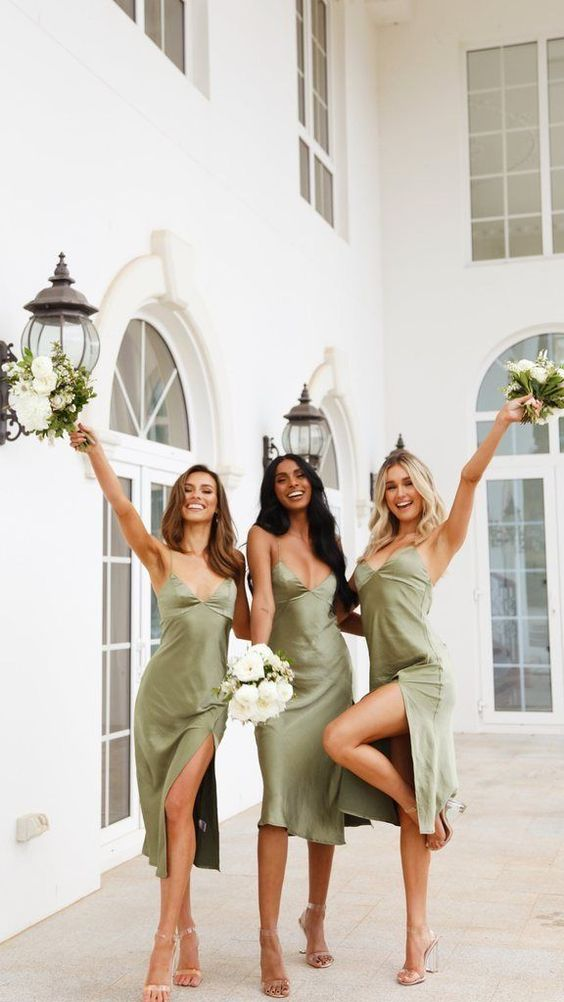
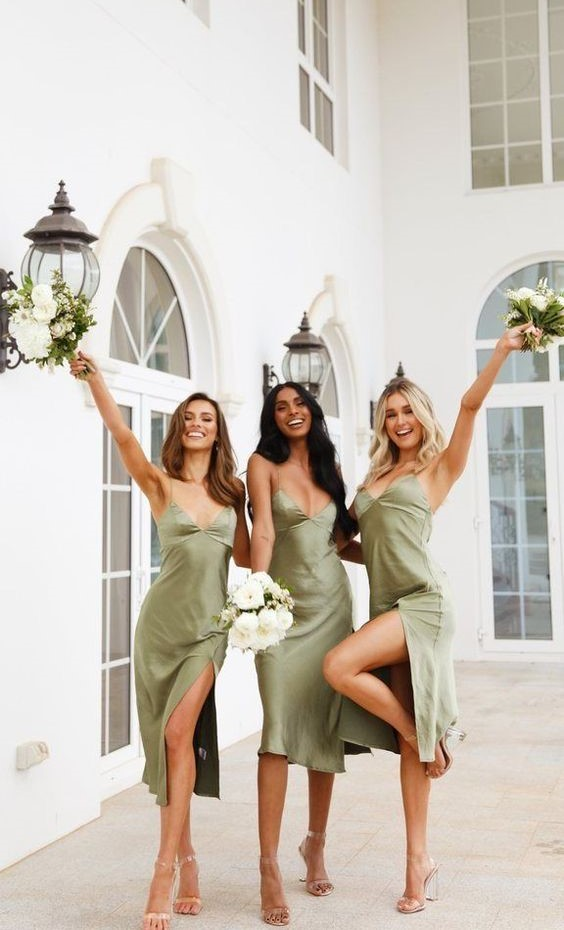
Final version

diff --git a/src/dist/output.css b/src/dist/output.css
@@ -579,16 +579,16 @@ video {
   top: 15%;
 }
 
-.right-\[90\%\] {
-  right: 90%;
+.right-\[80\%\] {
+  right: 80%;
 }
 
-.top-\[-100px\] {
-  top: -100px;
+.top-\[-30px\] {
+  top: -30px;
 }
 
-.left-16 {
-  left: 4rem;
+.left-24 {
+  left: 6rem;
 }
 
 .top-10 {
@@ -597,6 +597,10 @@ video {
 
 .left-\[-90\%\] {
   left: -90%;
+}
+
+.right-\[90\%\] {
+  right: 90%;
 }
 
 .top-0 {
@@ -655,16 +659,20 @@ video {
   margin-bottom: 2rem;
 }
 
+.mb-10 {
+  margin-bottom: 2.5rem;
+}
+
 .mb-12 {
   margin-bottom: 3rem;
 }
 
-.mt-5 {
-  margin-top: 1.25rem;
+.mt-16 {
+  margin-top: 4rem;
 }
 
-.mb-10 {
-  margin-bottom: 2.5rem;
+.mb-2 {
+  margin-bottom: 0.5rem;
 }
 
 .mt-8 {
@@ -675,8 +683,8 @@ video {
   margin-bottom: 1.25rem;
 }
 
-.mb-2 {
-  margin-bottom: 0.5rem;
+.mt-5 {
+  margin-top: 1.25rem;
 }
 
 .mb-3 {
@@ -739,6 +747,10 @@ video {
   width: 100%;
 }
 
+.w-\[30\%\] {
+  width: 30%;
+}
+
 .w-\[250px\] {
   width: 250px;
 }
@@ -774,10 +786,6 @@ video {
 
 .w-8 {
   width: 2rem;
-}
-
-.w-\[30\%\] {
-  width: 30%;
 }
 
 .max-w-\[1000px\] {
@@ -830,10 +838,6 @@ video {
 
 .gap-3 {
   gap: 0.75rem;
-}
-
-.gap-5 {
-  gap: 1.25rem;
 }
 
 .gap-y-1 {
@@ -899,6 +903,11 @@ video {
   border-style: double;
 }
 
+.border-black {
+  --tw-border-opacity: 1;
+  border-color: rgb(0 0 0 / var(--tw-border-opacity));
+}
+
 .border-gray-400 {
   --tw-border-opacity: 1;
   border-color: rgb(156 163 175 / var(--tw-border-opacity));
@@ -907,11 +916,6 @@ video {
 .border-\[\#5c5341\] {
   --tw-border-opacity: 1;
   border-color: rgb(92 83 65 / var(--tw-border-opacity));
-}
-
-.border-black {
-  --tw-border-opacity: 1;
-  border-color: rgb(0 0 0 / var(--tw-border-opacity));
 }
 
 .bg-white {
@@ -946,9 +950,9 @@ video {
   background-color: rgb(194 194 194 / var(--tw-bg-opacity));
 }
 
-.bg-\[\#ffecf0\] {
+.bg-\[\#ebecec\] {
   --tw-bg-opacity: 1;
-  background-color: rgb(255 236 240 / var(--tw-bg-opacity));
+  background-color: rgb(235 236 236 / var(--tw-bg-opacity));
 }
 
 .bg-body {
@@ -1044,12 +1048,12 @@ video {
   font-family: Playfair;
 }
 
-.font-Lowan {
-  font-family: Lowan;
-}
-
 .font-Baskvl {
   font-family: Baskvl;
+}
+
+.font-Lowan {
+  font-family: Lowan;
 }
 
 .font-Danette {
@@ -1088,6 +1092,10 @@ video {
 .text-4xl {
   font-size: 2.25rem;
   line-height: 2.5rem;
+}
+
+.text-\[17px\] {
+  font-size: 17px;
 }
 
 .font-semibold {
@@ -1152,14 +1160,19 @@ video {
   color: rgb(224 207 177 / var(--tw-text-opacity));
 }
 
-.text-\[\#4b4b4b\] {
+.text-\[\#837d6e\] {
   --tw-text-opacity: 1;
-  color: rgb(75 75 75 / var(--tw-text-opacity));
+  color: rgb(131 125 110 / var(--tw-text-opacity));
 }
 
 .text-\[\#181818\] {
   --tw-text-opacity: 1;
   color: rgb(24 24 24 / var(--tw-text-opacity));
+}
+
+.text-\[\#4b4b4b\] {
+  --tw-text-opacity: 1;
+  color: rgb(75 75 75 / var(--tw-text-opacity));
 }
 
 .opacity-30 {
@@ -1187,6 +1200,10 @@ video {
 
 .duration-200 {
   transition-duration: 200ms;
+}
+
+.ease-in {
+  transition-timing-function: cubic-bezier(0.4, 0, 1, 1);
 }
 
 @font-face {
@@ -1316,6 +1333,22 @@ input.PhoneInputInput {
 
   100%{
     opacity: 0;
+  }
+}
+
+span.word {
+  font-size: 1.4rem !important ;
+  font-family: 'Lowan' !important;
+}
+
+.words-wrapper {
+  white-space: normal !important;
+  text-align: center !important;
+}
+
+@media only screen and (max-width: 650px) {
+  span.word {
+    font-size: 1rem !important ;
   }
 }
 
@@ -1529,11 +1562,6 @@ input.PhoneInputInput {
   .md\:text-3xl {
     font-size: 1.875rem;
     line-height: 2.25rem;
-  }
-
-  .md\:text-xl {
-    font-size: 1.25rem;
-    line-height: 1.75rem;
   }
 }
 

diff --git a/src/components/Info.js b/src/components/Info.js
@@ -11,20 +11,20 @@ function Info() {
       
         <div className='flex sm:flex-row flex-col items-center'> 
             <img src={herImg} className='w-full sm:w-[250px] md:w-[300px]' />
-            <div className='bg-[#E9ECED] shadow-lg px-4 md:px-20 py-4 min-h-[180px] font-Lowan font-semibold leading-[1.8rem] flex items-center'>
+            <div className='bg-[#E9ECED] shadow-lg px-4 md:px-20 py-4 min-h-[180px] font-Baskvl font-semibold leading-[1.8rem] flex items-center'>
                <div className='relative'>
                     <img src={quote} className='text-[#E0CFB1] w-8 sm:w-16 md:w-20 lg:w-[100px] absolute top-0 left-0' />
-                    <p className='text-[#4b4b4b] text-center pl-8 sm:pl-0 sm:w-2/3 sm:ml-auto lg:mx-auto'>Мы поженимся! Сегодня и всегда, за пределами завтрашнего дня, ты нужен мне рядом со мной, всегда как мой лучший друг, любовник и вечная родственная душа.</p>
+                    <p className='text-[#837d6e] text-center pl-8 sm:pl-0 sm:w-2/3 sm:ml-auto lg:mx-auto'>Мы поженимся! Сегодня и всегда, за пределами завтрашнего дня, ты нужен мне рядом со мной, всегда как мой лучший друг, любовник и вечная родственная душа.</p>
                </div>
             </div>
         </div>
 
         <div className='flex sm:flex-row flex-col items-center'>
             <img src={hisImg} className='sm:order-2 order-1 w-full sm:w-[250px] md:w-[280px]' />
-            <div className='bg-[#E9ECED] shadow-lg sm:order-1 order-2 px-4 md:px-20 py-4 min-h-[180px] font-Lowan font-semibold leading-[1.8rem] flex items-center'>
+            <div className='bg-[#E9ECED] shadow-lg sm:order-1 order-2 px-4 md:px-20 py-4 min-h-[180px] font-Baskvl font-semibold leading-[1.8rem] flex items-center'>
                <div className='relative'>
                     <img src={quote} className='text-[#E0CFB1] w-8 sm:w-16 md:w-20 lg:w-[100px] absolute top-0 left-0' />
-                    <p className='text-[#4b4b4b] text-center pl-8 sm:pl-0 sm:w-2/3 sm:ml-auto lg:mx-auto'>Ты делаешь меня счастливее, чем когда-либо я мог себе представить, и если ты позволишь мне, я проведу остаток своей жизни, пытаясь заставить тебя чувствовать то же самое каждый день.</p>
+                    <p className='text-[#837d6e] text-center pl-8 sm:pl-0 sm:w-2/3 sm:ml-auto lg:mx-auto'>Ты делаешь меня счастливее, чем когда-либо я мог себе представить, и если ты позволишь мне, я проведу остаток своей жизни, пытаясь заставить тебя чувствовать то же самое каждый день.</p>
                </div>
             </div>
         </div>

diff --git a/src/components/Color.js b/src/components/Color.js
@@ -13,21 +13,29 @@ import menColor from '../asset/men-color.png';
 function Color() {
   return (
     <div className='max-w-[1000px] mx-auto xl:px-0 px-5'>
+        <hr className='border-t w-[30%] mx-auto border-black mb-10' />
+
         <h1 className='font-Playfair text-center text-2xl md:text-4xl tracking-wide mb-12 font-semibold'>DRESS CODE</h1>
-        <p className='font-Lowan text-center tracking-wide leading-relaxed text-[#363636]'>
+        <p className='font-Baskvl text-lg text-center tracking-wide leading-relaxed text-[#363636]'>
           Мы очень старались сделать праздник красивым и будем рады, <br /> если в своих нарядах вы поддержите цветовую гамму нашей свадьбы
         </p>
-        <div className='flex justify-between sm:flex-row flex-col items-center gap-2 sm:gap-4 mt-5 mb-10'>
-            <img src={girlColor} className="xl:order-1 order-2 w-[250px] md:w-[450px]"/>
-            <img src={menColor} className="xl:order-2 order-1 w-[140px] md:w-[260px]"/>
+        <div className='flex justify-between sm:flex-row flex-col items-center gap-2 sm:gap-4 mt-16 mb-10'>
+            <div>
+              <p className='font-Lowan text-2xl text-center tracking-wide leading-relaxed text-[#363636]'>Для девушек:</p>
+              <img src={girlColor} className="xl:order-1 order-2 w-[250px] md:w-[450px]"/>
+            </div>
+            <div>
+              <p className='font-Lowan text-2xl text-center tracking-wide leading-relaxed text-[#363636] mb-2'>Для мужчин:</p>
+              <img src={menColor} className="xl:order-2 order-1 w-[140px] md:w-[260px]"/>
+            </div>
         </div>
 
         <div className='flex sm:flex-row flex-col justify-between relative xl:left-28 2xl:px-0 lg:px-10'>
               
               <div className='relative xl:space-y-0 space-y-8 xl:order-1 order-2'>
-                  <img src={girl1} alt="" className='w-full h-[380px] object-cover relative xl:z-[5]' />
-                  <img src={girl2} alt="" className='w-full h-[380px] object-cover  xl:absolute top-[15%] right-[90%]' />
-                  <img src={girl3} alt="" className='w-full h-[380px] object-cover z-10 xl:relative top-[-100px] left-16' />
+                  <img src={girl1} alt="" className='w-full h-[380px] object-conver relative xl:z-[5]' />
+                  <img src={girl2} alt="" className='w-full h-[380px] object-cover  xl:absolute top-[15%] right-[80%]' />
+                  <img src={girl3} alt="" className='w-full h-[380px] object-cover z-10 xl:relative top-[-30px] left-24' />
               </div>
 
               <div className='relative space-y-8  xl:order-2 order-1'> 

diff --git a/src/components/Hero.js b/src/components/Hero.js
@@ -1,13 +1,10 @@
 import React from 'react'
 import border from '../asset/hero-border.png';
 import backgroundVideo from '../asset/video.mp4';
-import { useState, useEffect } from 'react';
+import TextAnimation from "react-text-animations";
 
 function Hero() {
-  const [scroll, setScroll] = useState(0);
-  window.addEventListener('scroll', () => {
-    setScroll(window.scrollY);
-  }) 
+
 
   return (
       <section className='text-white h-screen'>
@@ -19,9 +16,9 @@ function Hero() {
             <p className='hidden lg:block font-Danette md:text-4xl xl:text-6xl z-10'>Irina & Nikita</p>
             <div className='flex flex-col items-center justify-center h-[100%]'>
               <h1 className='font-Playfair text-2xl lg:text-4xl xl:text-7xl font-semibold tracking-widest mb-10'>Ирина & Никита</h1>
-              <p className='font-Playfair text-base md:text-xl tracking-wide text-center'>Мы женимся и надеемся, что Вы разделите с нами этот день!</p>
+              <TextAnimation.Slide animation={{duration: 700, timingFunction: 'ease-in', delay: 3000}} target="Merciful" text={[' Приглашение на торжество', 'Мы женимся и надеемся, что Вы разделите с нами этот особенный день!']}> </TextAnimation.Slide>
               <img src={border} className="w-[350px] my-8" />
-              <div className='text-white py-2 px-10 font-Playfair text-xl sm:text-4xl tracking-wider font-semibold sm:mt-10'>3 августа 2023</div>
+              <div className='text-white py-2 px-10 font-Baskvl text-xl sm:text-4xl tracking-wider font-semibold sm:mt-10'>3 августа 2023</div>
             </div>
           </div>
       </section>

diff --git a/src/components/WishList.js b/src/components/WishList.js
@@ -3,8 +3,8 @@ import React from 'react'
 function WishList() {
   return (
     <div className='my-20 max-w-[1140px] mx-auto xl:px-0 px-4'>
-        <h1 className='font-Playfair text-center text-4xl ld:text-6xl tracking-wide text-[#181818] mb-12 font-semibold'>ПОЖЕЛАНИЯ</h1>
-        <div className='grid grid-cols-1 md:grid-cols-3 gap-5'>
+        <h1 className='font-Playfair text-center text-4xl ld:text-6xl tracking-wide text-[#181818] mb-12 font-semibold'>"ПОЖЕЛАНИЯ"</h1>
+        <div className='grid grid-cols-1 md:grid-cols-3 gap-3'>
             <div className={styles.textBox}>
             Будем благодарны, если Вы воздержитесь от криков «Горько» на празднике, ведь поцелуй - знак выражения чувств, он не может быть по заказу.
             </div>
@@ -23,7 +23,7 @@ function WishList() {
 
 
 const styles = {
-    textBox: 'bg-[#ffecf0] p-4 md:p-8 font-Lowan leading-[1.8rem] text-center text-[#4b4b4b]'
+    textBox: 'bg-[#ebecec] p-4 md:p-8 font-Baskvl leading-[1.8rem]  text-[17px] text-center text-[#4b4b4b]'
 }
 
 export default WishList

diff --git a/src/components/Tab.js b/src/components/Tab.js
@@ -4,8 +4,7 @@ import video2 from '../asset/video2.mp4';
 function Tab() {
   return (
     <div className='max-w-[1000px] xl:px-0 px-4 mx-auto my-10'>
-        <hr className='border-t w-[30%] mx-auto border-black' />
-        <h1 className='font-Playfair text-2xl md:text-4xl font-medium text-center text-[#181818] my-10'>ПЛАН ДНЯ</h1>
+        <h1 className='font-Playfair text-2xl md:text-4xl font-medium text-center text-[#181818] my-8'>ПЛАН ДНЯ</h1>
 
         <div className='border border-gray-400 md:h-[350px] p-5 md:p-10 flex md:flex-row flex-col gap-x-6'>
           <div className='flex md:w-[70%] md:flex-row flex-col'>

diff --git a/src/index.css b/src/index.css
@@ -108,3 +108,20 @@ input.PhoneInputInput {
         opacity: 0;
     }
 }
+
+
+span.word {
+    font-size: 1.4rem !important ;
+    font-family: 'Lowan' !important;
+}
+
+.words-wrapper {
+	white-space: normal !important;
+    text-align: center !important;
+}
+
+@media only screen and (max-width: 650px) {
+    span.word {
+        font-size: 1rem !important ;
+    }
+}
